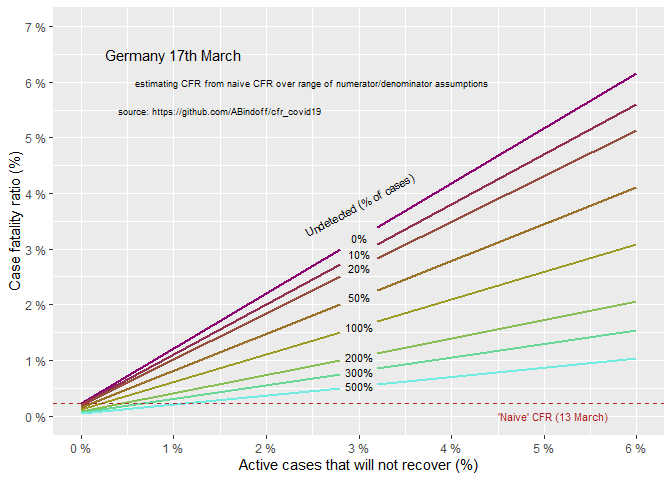
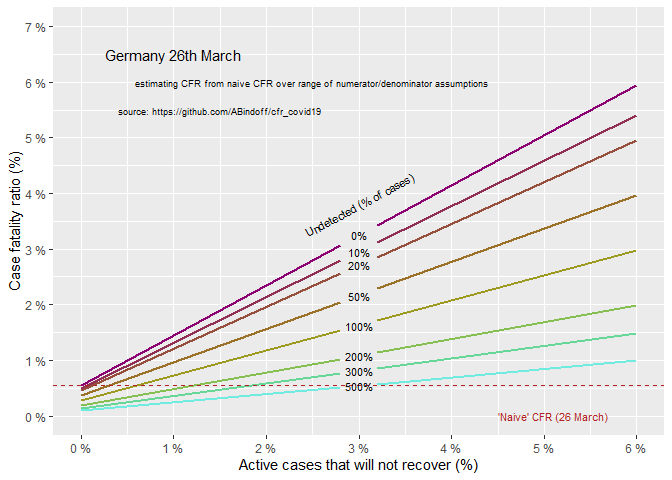
update Germany

diff --git a/cfr_covid19_germany.md b/cfr_covid19_germany.md
@@ -1,7 +1,7 @@
 Errors in calculating CFR for COVID-19 - Germany (DE)
 ================
 Bindoff, A.
-17/03/2020
+26/03/2020
 
 The case fatality rate (CFR) *during* an epidemic is known to be
 inaccurate because (a) the true number of cases is unknown, and (b) many
@@ -38,10 +38,10 @@ not recover (making the simplifying, conservative assumption that
 because the undetected cases are asymptomatic or mild, the patient is
 unlikely to die).
 
-We will use total cases, recoveries, and deaths as of 17th March 2020
+We will use total cases, recoveries, and deaths as of 26th March 2020
 for **Germany** to provide context. These data are simply transcribed
-from <https://www.worldometers.info/coronavirus/> (accessed 10:54AM AEST
-17-3-20). For simplicity we will not consider conditional estimates of
+from <https://www.worldometers.info/coronavirus/> (accessed 13:04PM AEST
+26-3-20). For simplicity we will not consider conditional estimates of
 CFR (age, comorbidity, or the capacity of different regions to respond
 with life-saving acute care).
 
@@ -56,9 +56,9 @@ cfr <- function(w_hat, deaths, recoveries, active_cases, p_uncounted = 0){
 # active cases = 7188
 
 d <- expand.grid(w_hat = c(0, .028, .03, .032, .06),
-                 active_cases = 7188,
-                 deaths = 17,
-                 recoveries = 67,
+                 active_cases = 33570,
+                 deaths = 206,
+                 recoveries = 3547,
                  p_uncounted = c(0, .10, .2, .50, 1, 2, 3, 5))
 
 
@@ -74,7 +74,7 @@ d$cfr <- cfr(w_hat = d$w_hat,
 d$cfr0 <- d$cfr
 d$cfr[d$w_hat ==.03] <- NA
 
-crude_cfr <- 17/7272
+crude_cfr <- 206/37323
 ```
 
 ![](cfr_covid19_germany_files/figure-gfm/unnamed-chunk-4-1.png)<!-- -->
